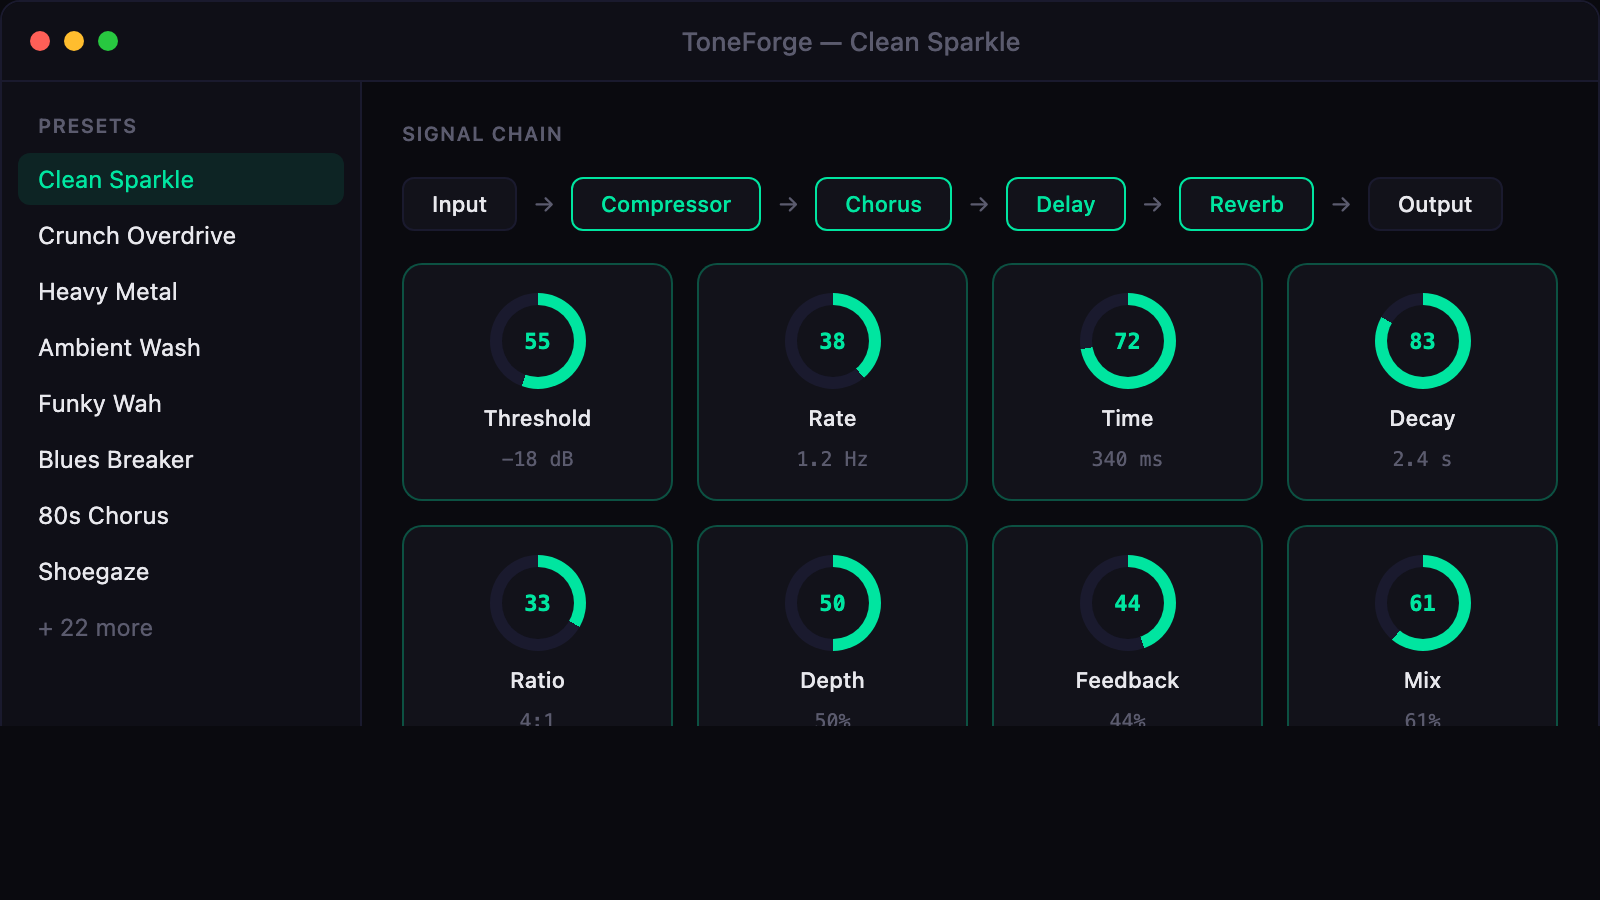
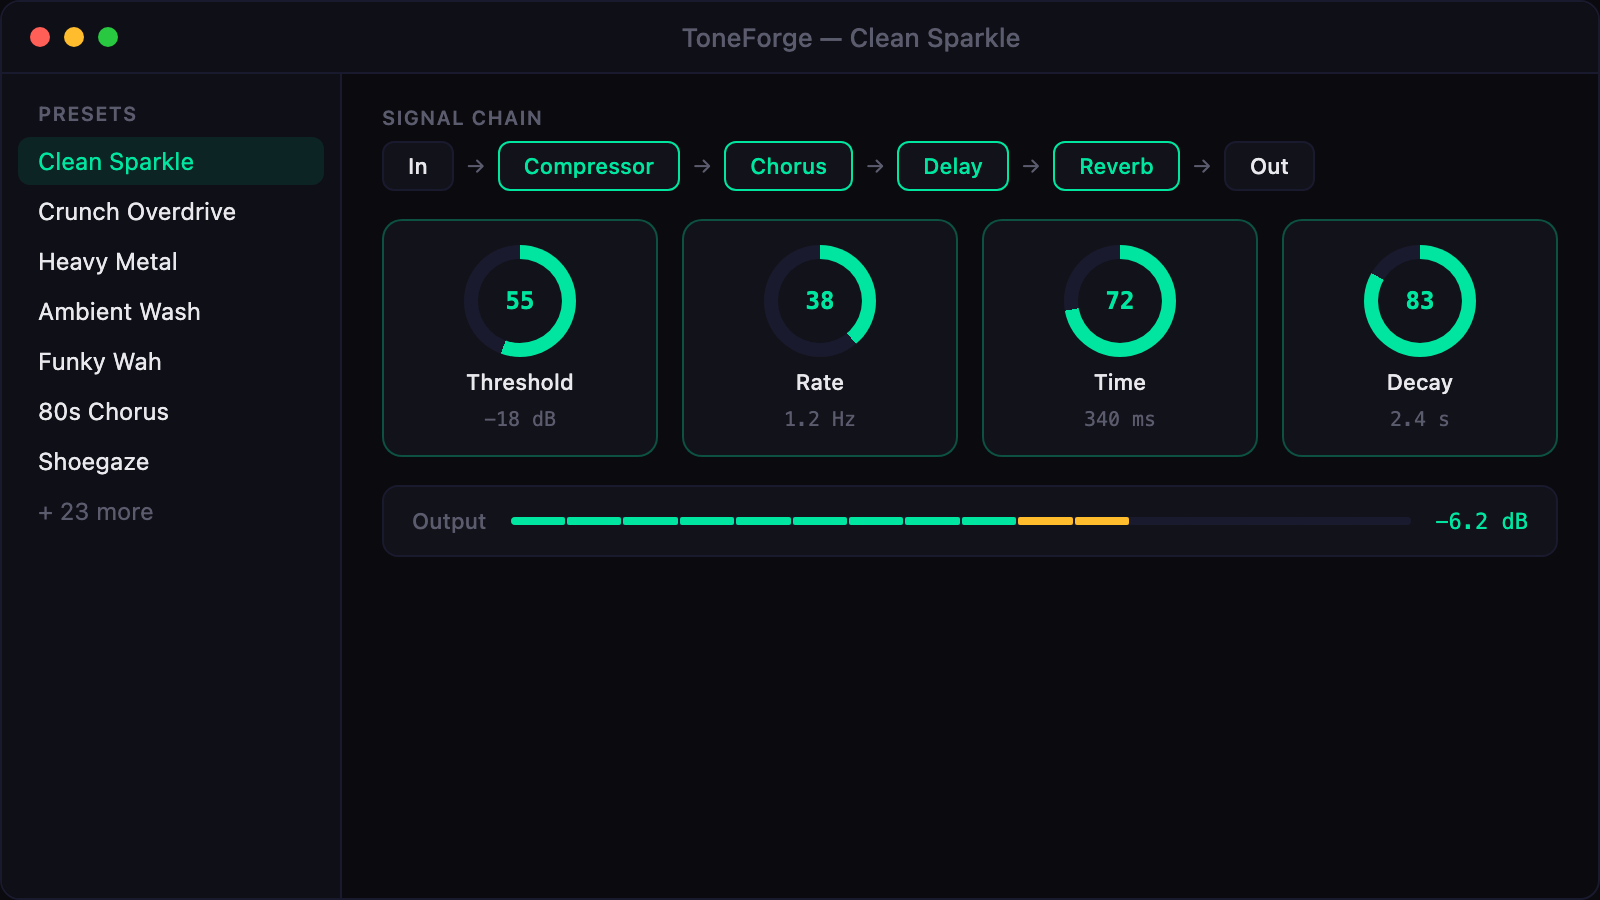
fix: tighten toneforge mockup to fit viewport

diff --git a/mockups/toneforge.html b/mockups/toneforge.html
@@ -2,7 +2,6 @@
 <html lang="en">
 <head>
 <meta charset="UTF-8">
-<meta name="viewport" content="width=800">
 <style>
   * { margin: 0; padding: 0; box-sizing: border-box; }
   body {
@@ -14,59 +13,56 @@
     border: 1px solid #1a1a2e; display: flex; flex-direction: column;
   }
   .titlebar {
-    height: 40px; background: #0f0f17; display: flex; align-items: center;
+    height: 36px; background: #0f0f17; display: flex; align-items: center;
     padding: 0 14px; gap: 7px; border-bottom: 1px solid #1a1a2e; flex-shrink: 0;
   }
   .dot { width: 10px; height: 10px; border-radius: 50%; }
   .dot-r { background: #ff5f57; } .dot-y { background: #ffbd2e; } .dot-g { background: #28c840; }
   .title-text { flex: 1; text-align: center; color: #5b5b6e; font-size: 13px; font-weight: 500; }
-  .content { display: flex; flex: 1; }
+  .content { display: flex; flex: 1; overflow: hidden; }
   .sidebar {
-    width: 180px; background: #0f0f17; border-right: 1px solid #1a1a2e;
-    padding: 12px 8px;
+    width: 170px; background: #0f0f17; border-right: 1px solid #1a1a2e;
+    padding: 10px 8px;
   }
-  .preset-title { font-size: 10px; color: #5b5b6e; font-weight: 600; letter-spacing: 0.05em; text-transform: uppercase; padding: 4px 10px 8px; }
+  .preset-title { font-size: 10px; color: #5b5b6e; font-weight: 600; letter-spacing: 0.05em; text-transform: uppercase; padding: 4px 10px 6px; }
   .preset-item {
-    padding: 6px 10px; border-radius: 6px; font-size: 12px; color: #e8e8ed; margin-bottom: 2px;
+    padding: 5px 10px; border-radius: 6px; font-size: 12px; color: #e8e8ed; margin-bottom: 1px;
   }
   .preset-item.active { background: rgba(0,229,160,0.1); color: #00e5a0; }
-  .main { flex: 1; padding: 20px; display: flex; flex-direction: column; gap: 16px; }
+  .main { flex: 1; padding: 16px 20px; display: flex; flex-direction: column; gap: 14px; }
   .chain-label { font-size: 10px; color: #5b5b6e; font-weight: 600; letter-spacing: 0.05em; text-transform: uppercase; }
-  .chain { display: flex; gap: 8px; align-items: center; }
+  .chain { display: flex; gap: 6px; align-items: center; flex-wrap: wrap; }
   .chain-block {
-    padding: 6px 14px; border-radius: 6px; font-size: 11px; font-weight: 500;
+    padding: 5px 12px; border-radius: 6px; font-size: 11px; font-weight: 500;
     border: 1px solid #1a1a2e; color: #e8e8ed; background: #12121a;
   }
   .chain-block.active { border-color: #00e5a0; color: #00e5a0; }
-  .chain-arrow { color: #5b5b6e; font-size: 12px; }
-  .effects-grid { display: grid; grid-template-columns: repeat(4, 1fr); gap: 12px; flex: 1; }
+  .chain-arrow { color: #5b5b6e; font-size: 11px; }
+  .effects-grid { display: grid; grid-template-columns: repeat(4, 1fr); gap: 12px; }
   .effect-card {
-    background: #12121a; border: 1px solid #1a1a2e; border-radius: 10px;
-    padding: 14px; display: flex; flex-direction: column; align-items: center; gap: 8px;
+    background: #12121a; border: 1px solid rgba(0,229,160,0.3); border-radius: 10px;
+    padding: 12px; display: flex; flex-direction: column; align-items: center; gap: 6px;
   }
-  .effect-card.active { border-color: rgba(0,229,160,0.3); }
   .knob {
-    width: 48px; height: 48px; border-radius: 50%;
+    width: 56px; height: 56px; border-radius: 50%;
     background: conic-gradient(#00e5a0 0deg, #00e5a0 var(--angle, 200deg), #1a1a2e var(--angle, 200deg), #1a1a2e 360deg);
     display: flex; align-items: center; justify-content: center;
   }
   .knob-inner {
-    width: 36px; height: 36px; border-radius: 50%; background: #12121a;
+    width: 42px; height: 42px; border-radius: 50%; background: #12121a;
     display: flex; align-items: center; justify-content: center;
-    font-size: 11px; color: #00e5a0; font-weight: 600; font-family: 'SF Mono', monospace;
+    font-size: 12px; color: #00e5a0; font-weight: 600; font-family: 'SF Mono', monospace;
   }
   .effect-name { font-size: 11px; color: #e8e8ed; font-weight: 500; }
   .effect-value { font-size: 10px; color: #5b5b6e; font-family: 'SF Mono', monospace; }
   .meter-bar {
-    width: 100%; height: 40px; background: #12121a; border: 1px solid #1a1a2e;
-    border-radius: 8px; display: flex; align-items: center; padding: 0 16px; gap: 12px;
+    height: 36px; background: #12121a; border: 1px solid #1a1a2e;
+    border-radius: 8px; display: flex; align-items: center; padding: 0 14px; gap: 12px;
   }
   .meter-label { font-size: 11px; color: #5b5b6e; font-weight: 500; white-space: nowrap; }
   .meter-track { flex: 1; height: 4px; background: #1a1a2e; border-radius: 2px; overflow: hidden; display: flex; gap: 1px; }
   .meter-seg { flex: 1; height: 100%; border-radius: 1px; }
-  .seg-on-g { background: #00e5a0; }
-  .seg-on-y { background: #ffbd2e; }
-  .seg-off { background: #1a1a2e; }
+  .seg-on-g { background: #00e5a0; } .seg-on-y { background: #ffbd2e; } .seg-off { background: #1a1a2e; }
   .db-val { font-size: 11px; color: #00e5a0; font-family: 'SF Mono', monospace; font-weight: 500; }
 </style>
 </head>
@@ -84,35 +80,27 @@
       <div class="preset-item">Heavy Metal</div>
       <div class="preset-item">Ambient Wash</div>
       <div class="preset-item">Funky Wah</div>
-      <div class="preset-item">Blues Breaker</div>
       <div class="preset-item">80s Chorus</div>
       <div class="preset-item">Shoegaze</div>
-      <div class="preset-item" style="color: #5b5b6e;">+ 22 more</div>
+      <div class="preset-item" style="color: #5b5b6e;">+ 23 more</div>
     </div>
     <div class="main">
-      <div class="chain-label">Signal Chain</div>
-      <div class="chain">
-        <div class="chain-block">Input</div>
-        <span class="chain-arrow">→</span>
-        <div class="chain-block active">Compressor</div>
-        <span class="chain-arrow">→</span>
-        <div class="chain-block active">Chorus</div>
-        <span class="chain-arrow">→</span>
-        <div class="chain-block active">Delay</div>
-        <span class="chain-arrow">→</span>
-        <div class="chain-block active">Reverb</div>
-        <span class="chain-arrow">→</span>
-        <div class="chain-block">Output</div>
+      <div>
+        <div class="chain-label" style="margin-bottom: 6px;">Signal Chain</div>
+        <div class="chain">
+          <div class="chain-block">In</div><span class="chain-arrow">→</span>
+          <div class="chain-block active">Compressor</div><span class="chain-arrow">→</span>
+          <div class="chain-block active">Chorus</div><span class="chain-arrow">→</span>
+          <div class="chain-block active">Delay</div><span class="chain-arrow">→</span>
+          <div class="chain-block active">Reverb</div><span class="chain-arrow">→</span>
+          <div class="chain-block">Out</div>
+        </div>
       </div>
       <div class="effects-grid">
-        <div class="effect-card active"><div class="knob" style="--angle: 200deg"><div class="knob-inner">55</div></div><div class="effect-name">Threshold</div><div class="effect-value">-18 dB</div></div>
-        <div class="effect-card active"><div class="knob" style="--angle: 140deg"><div class="knob-inner">38</div></div><div class="effect-name">Rate</div><div class="effect-value">1.2 Hz</div></div>
-        <div class="effect-card active"><div class="knob" style="--angle: 260deg"><div class="knob-inner">72</div></div><div class="effect-name">Time</div><div class="effect-value">340 ms</div></div>
-        <div class="effect-card active"><div class="knob" style="--angle: 300deg"><div class="knob-inner">83</div></div><div class="effect-name">Decay</div><div class="effect-value">2.4 s</div></div>
-        <div class="effect-card active"><div class="knob" style="--angle: 120deg"><div class="knob-inner">33</div></div><div class="effect-name">Ratio</div><div class="effect-value">4:1</div></div>
-        <div class="effect-card active"><div class="knob" style="--angle: 180deg"><div class="knob-inner">50</div></div><div class="effect-name">Depth</div><div class="effect-value">50%</div></div>
-        <div class="effect-card active"><div class="knob" style="--angle: 160deg"><div class="knob-inner">44</div></div><div class="effect-name">Feedback</div><div class="effect-value">44%</div></div>
-        <div class="effect-card active"><div class="knob" style="--angle: 220deg"><div class="knob-inner">61</div></div><div class="effect-name">Mix</div><div class="effect-value">61%</div></div>
+        <div class="effect-card"><div class="knob" style="--angle: 200deg"><div class="knob-inner">55</div></div><div class="effect-name">Threshold</div><div class="effect-value">-18 dB</div></div>
+        <div class="effect-card"><div class="knob" style="--angle: 140deg"><div class="knob-inner">38</div></div><div class="effect-name">Rate</div><div class="effect-value">1.2 Hz</div></div>
+        <div class="effect-card"><div class="knob" style="--angle: 260deg"><div class="knob-inner">72</div></div><div class="effect-name">Time</div><div class="effect-value">340 ms</div></div>
+        <div class="effect-card"><div class="knob" style="--angle: 300deg"><div class="knob-inner">83</div></div><div class="effect-name">Decay</div><div class="effect-value">2.4 s</div></div>
       </div>
       <div class="meter-bar">
         <span class="meter-label">Output</span>
